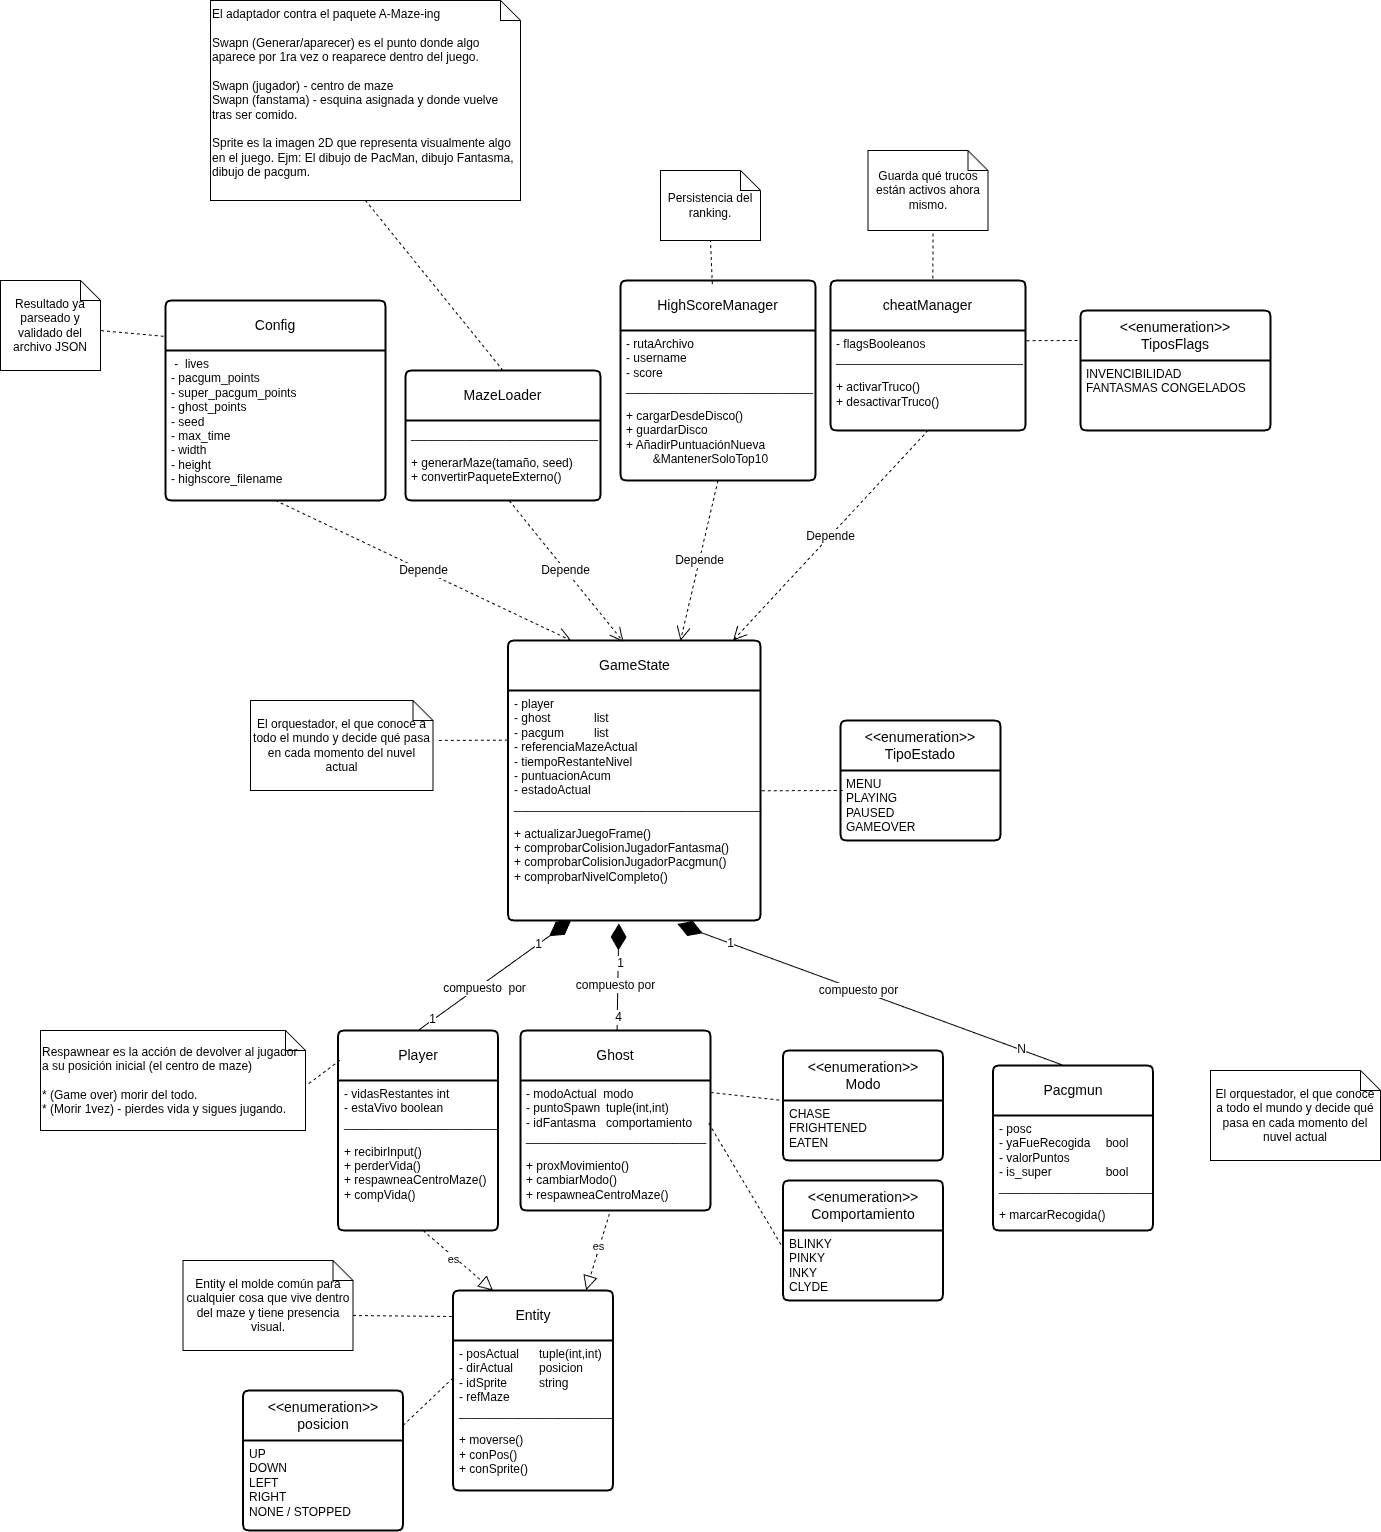
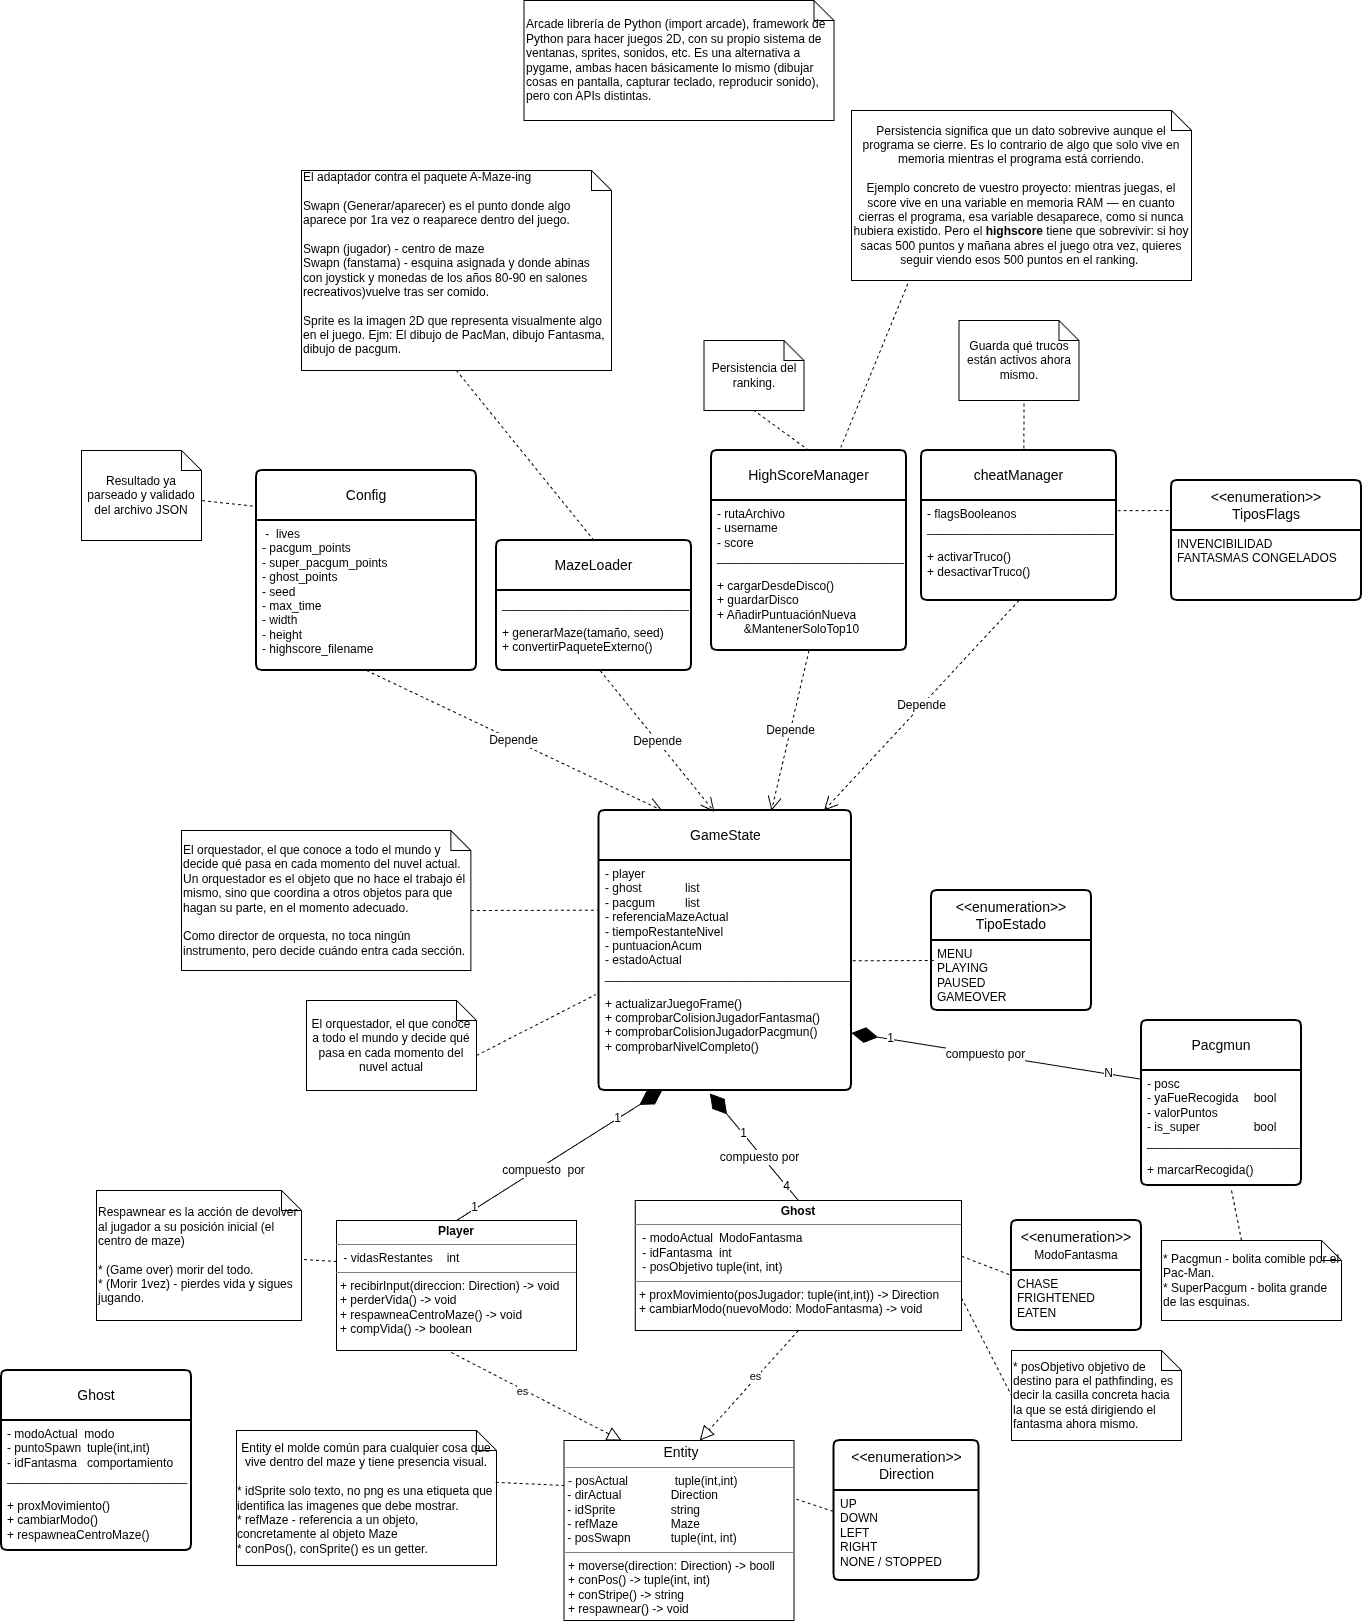
adding more analysis pacman

diff --git a/docs/DECISIONS.md b/docs/DECISIONS.md
@@ -1,0 +1,15 @@
+## Player
+* `recibirInput(direccion: Direction) -> void `
+>> Fíjate que Entity ya tiene dirActual (la dirección en la que se está moviendo ahora mismo), pero la dirección que el jugador quiere tomar en cuanto sea posible (por ejemplo, gira antes de llegar a la esquina) es un concepto ligeramente distinto en muchos Pac-Man. Puedes optar por simplificar y que sean lo mismo (recibirInput sobrescribe directamente dirActual), o añadir un atributo nuevo dirDeseada: Direction en Player si quieres ese comportamiento más fiel de "recordar hacia dónde quiero girar".
+
+* `perderVida()`
+>> Internamente decrementa vidasRestantes en 1. Aquí también una decisión pendiente: ¿este método llama él mismo a respawneaCentroMaze(), o eso lo decide quien llama (GameState) por separado? Ambas son válidas, pero tenlo claro para cuando implementes.
+
+* `respawneaCentroMaze() -> void`. Internamente hace posActual = posSpawn (usando el atributo heredado de Entity).
+* `compVida() -> boolean` — Vuelve True si vidasRestantes <= 0.
+
+## Ghost
+
+* `idFantasma: int`
+>> Recuerda cuando hablamos de esta pieza en el diagrama: dijimos "identificador de qué fantasma es (0-3), si vas a diferenciar comportamientos tipo Blinky/Pinky/Inky/Clyde". Es decir, idFantasma debería ser simplemente un número (int, 0 a 3) que identifica cuál de los 4 fantasmas es — no un tipo llamado "comportamiento". El comportamiento en sí (cómo persigue, qué target elige) es lógica dentro de proxMovimiento(), no un dato que se guarde como atributo con ese tipo.
+* `proxMovimiento(posJugador: tuple(int,int)) -> Direction` calcula hacia dónde se mueve el fantasma según su modoActual. 